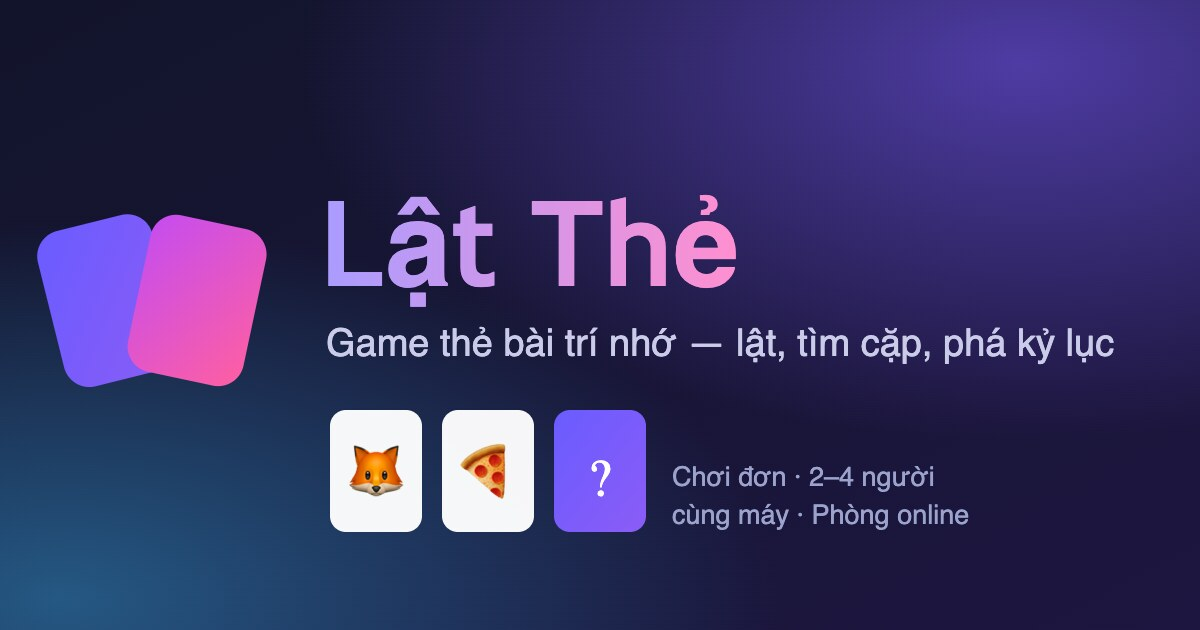
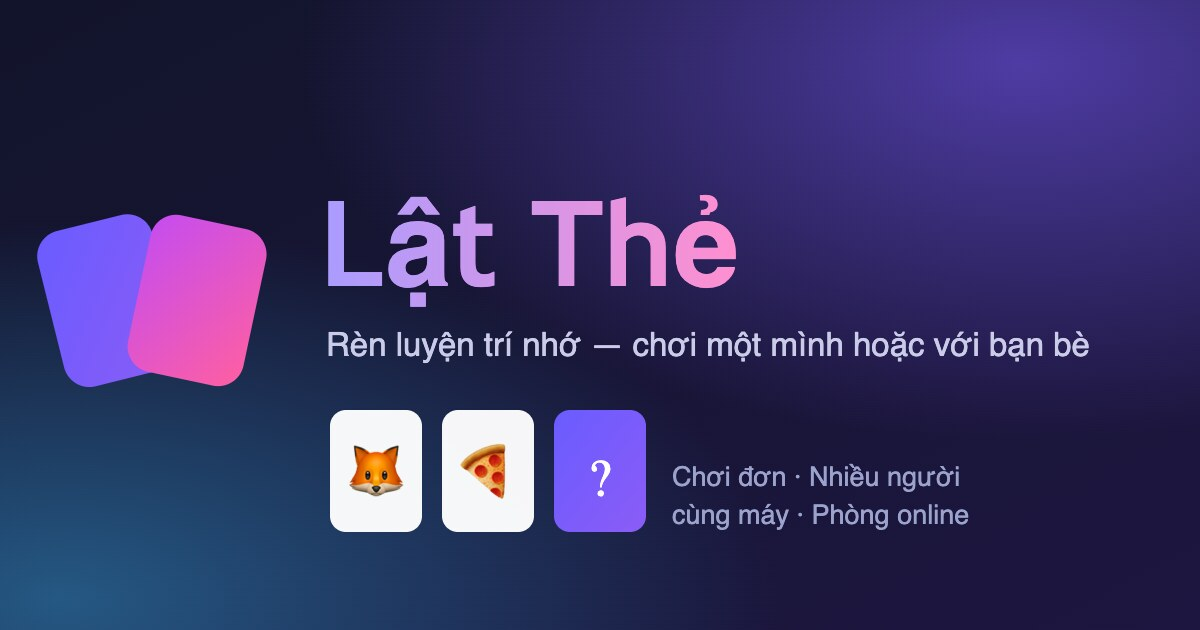
feat: viết lại mô tả chia sẻ mạng xã hội, bỏ các con số dễ lỗi thời
Mô tả cũ liệt kê tính năng ("lật thẻ, tìm cặp giống nhau, phá kỷ lục... 2–4
người cùng máy, hoặc mở phòng online bằng mã 6 số") — dài và khô. Thay bằng một
câu ngắn:
  "Game thẻ bài rèn luyện trí nhớ, nhiều chế độ hấp dẫn để chơi một mình hoặc
   với bạn bè."
dùng chung cho og và twitter; bản SEO thêm "Tạo phòng online bằng mã 6 số".

Bỏ mọi con số cụ thể (5 chế độ / 30 màn / 2–4 người) khỏi thẻ chia sẻ VÀ khỏi
ảnh og.jpg — thay đổi nội dung game là chúng sai ngay. Giữ "mã 6 số" vì đó là
thứ người chơi thực sự gõ.

Gọn og:title còn "Lật Thẻ": để nguyên "Lật Thẻ — Game thẻ bài trí nhớ" thì lặp
với mô tả ngay trong cùng một thẻ.

Ảnh og.jpg vẽ lại theo thông điệp mới; cỡ chữ dòng phụ 38 -> 33px vì câu dài
hơn làm chữ cuối tràn khỏi khung.

README: sửa "Chiến dịch 20 màn" thành 30, ghi rõ nhiều người dùng được mọi chế
độ trừ Chiến dịch, và bổ sung hạn mức emoji 3 lần / 10 giây.

Changed region(s): [[0.2775, 0.5127, 0.925, 0.573], [0.6783, 0.7238, 0.8017, 0.7841]]

diff --git a/apps/web/index.html b/apps/web/index.html
@@ -17,20 +17,20 @@
 
   <!-- Thẻ chia sẻ. og:image PHẢI là URL tuyệt đối — Facebook/Zalo không hiểu
        đường dẫn tương đối; đổi domain thì phải sửa cả ba dòng dưới. -->
-  <meta name="description" content="Game thẻ bài trí nhớ: lật thẻ, tìm cặp giống nhau, phá kỷ lục của chính bạn. Chơi đơn, 2–4 người cùng máy, hoặc mở phòng online bằng mã 6 số.">
+  <meta name="description" content="Game thẻ bài rèn luyện trí nhớ, nhiều chế độ hấp dẫn để chơi một mình hoặc với bạn bè. Tạo phòng online bằng mã 6 số.">
   <meta property="og:type" content="website">
   <meta property="og:site_name" content="Lật Thẻ">
   <meta property="og:locale" content="vi_VN">
   <meta property="og:url" content="https://ghi-nho-the-bai.hello314.com/">
-  <meta property="og:title" content="Lật Thẻ — Game thẻ bài trí nhớ">
-  <meta property="og:description" content="Lật thẻ, tìm cặp giống nhau, phá kỷ lục của chính bạn. Chơi đơn, 2–4 người cùng máy, hoặc mở phòng online bằng mã 6 số.">
+  <meta property="og:title" content="Lật Thẻ">
+  <meta property="og:description" content="Game thẻ bài rèn luyện trí nhớ, nhiều chế độ hấp dẫn để chơi một mình hoặc với bạn bè.">
   <meta property="og:image" content="https://ghi-nho-the-bai.hello314.com/og.jpg">
   <meta property="og:image:width" content="1200">
   <meta property="og:image:height" content="630">
-  <meta property="og:image:alt" content="Lật Thẻ — game thẻ bài trí nhớ">
+  <meta property="og:image:alt" content="Lật Thẻ — game thẻ bài trí nhớ: hai lá bài và ba thẻ đang lật">
   <meta name="twitter:card" content="summary_large_image">
-  <meta name="twitter:title" content="Lật Thẻ — Game thẻ bài trí nhớ">
-  <meta name="twitter:description" content="Lật thẻ, tìm cặp giống nhau, phá kỷ lục của chính bạn.">
+  <meta name="twitter:title" content="Lật Thẻ">
+  <meta name="twitter:description" content="Game thẻ bài rèn luyện trí nhớ, nhiều chế độ hấp dẫn để chơi một mình hoặc với bạn bè.">
   <meta name="twitter:image" content="https://ghi-nho-the-bai.hello314.com/og.jpg">
 </head>
 <body>

diff --git a/README.md b/README.md
@@ -54,8 +54,8 @@ server.js            Web server tĩnh cho bản build production
 
 | Nhóm | Nội dung |
 |---|---|
-| Chơi đơn | Cổ điển (SP-01), Đua thời gian (SP-02), Chiến dịch 20 màn (SP-03), Sinh tồn (SP-04), Chớp nhoáng (SP-05) |
-| Nhiều người | 2–4 người cùng thiết bị, luân phiên, xếp hạng cuối ván (MP-01…MP-04) |
+| Chơi đơn | Cổ điển (SP-01), Đua thời gian (SP-02), Chiến dịch 30 màn (SP-03), Sinh tồn (SP-04), Chớp nhoáng (SP-05) |
+| Nhiều người | 2–4 người cùng thiết bị, luân phiên, xếp hạng cuối ván (MP-01…MP-04). Dùng được mọi chế độ trừ Chiến dịch |
 | Thẻ đặc biệt | Bom, x2, mắt thần, đóng băng — bật từ màn 3 của Chiến dịch (3.4) |
 | Điểm | 100/cặp, combo x1.2/x1.5/x2, −10 lượt sai (Cổ điển), +5/giây còn lại, xếp 1–3 sao (3.5) |
 | Nội dung | 5 theme nạp từ `apps/web/public/data/themes.json`, mở khoá bằng điểm tích lũy (3.6) |
@@ -77,8 +77,10 @@ Cần tối thiểu 18 biểu tượng cho lưới 6×6. `unlockAt` là điểm 
 Backend: **Cloudflare Durable Objects** (`apps/server`) — mỗi phòng là một DO chạy
 chính `packages/engine`, WebSocket Hibernation, trạng thái snapshot vào storage.
 
-- Tạo phòng mã 6 ký tự + link mời `?room=CODE` (ON-01), 2–4 người, chủ phòng chọn
-  chế độ/lưới/theme (ON-03), turn-based realtime (ON-04/05)
+- Tạo phòng mã 6 chữ số + link mời `?room=CODE` (ON-01), 2–4 người, chủ phòng chọn
+  chế độ/lưới/theme (ON-03), turn-based realtime (ON-04/05). Chế độ dùng được
+  trong phòng: `ROOM_MODES` — mọi thứ trừ Chiến dịch
+- Emoji chat giới hạn 3 lần / 10 giây, chặn ở server (`ROOM_LIMITS.emojiBurst`)
 - Server-authoritative: client chỉ gửi `{t:'flip'}`; payload không bao giờ chứa
   thẻ úp (ON-09, NF-04); emoji chat danh sách đóng (ON-08)
 - Rớt mạng có 30 giây vào lại bằng token, quá hạn bị xử thua (ON-07)
